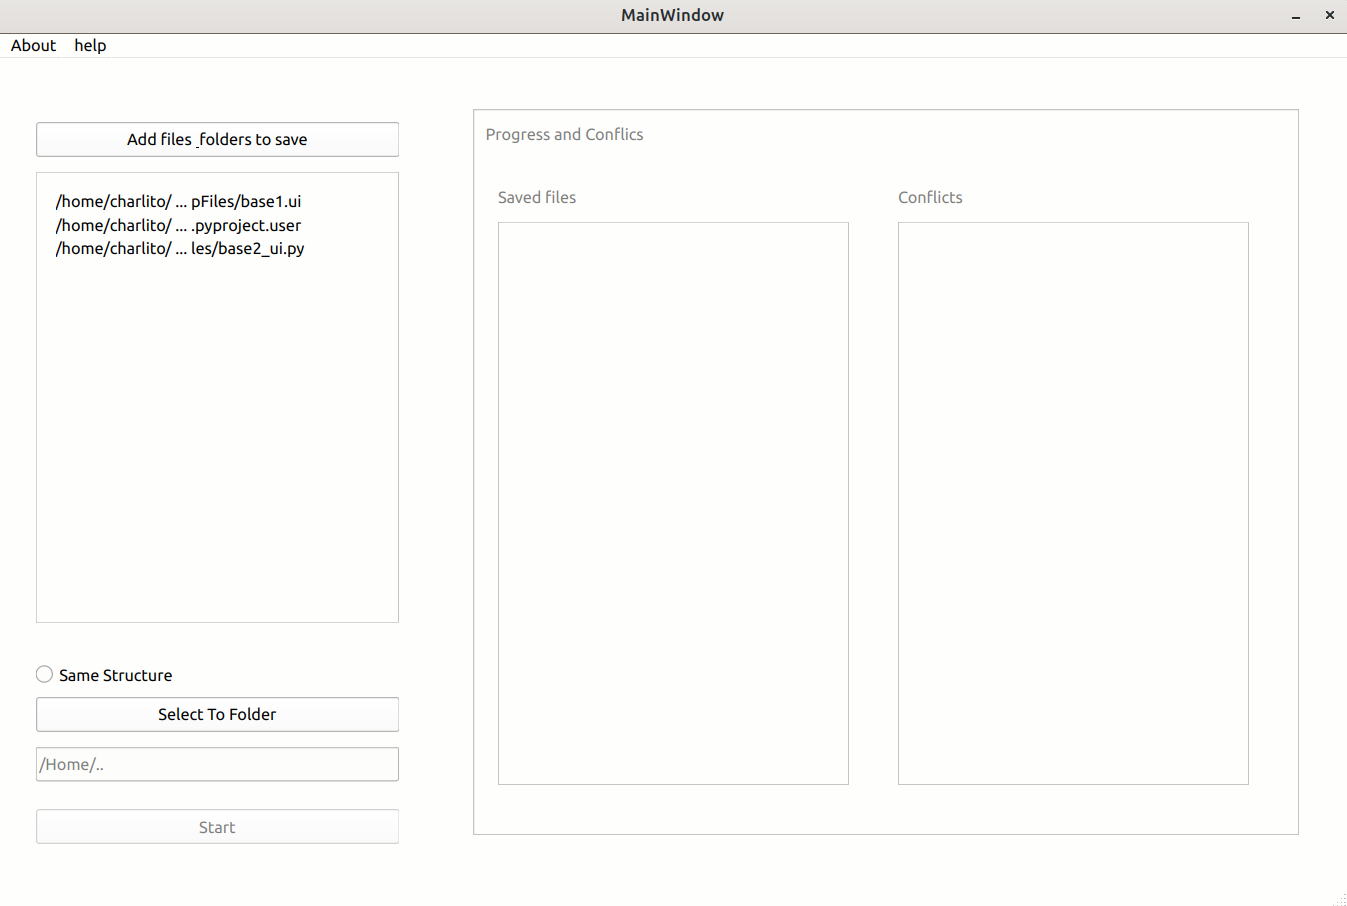
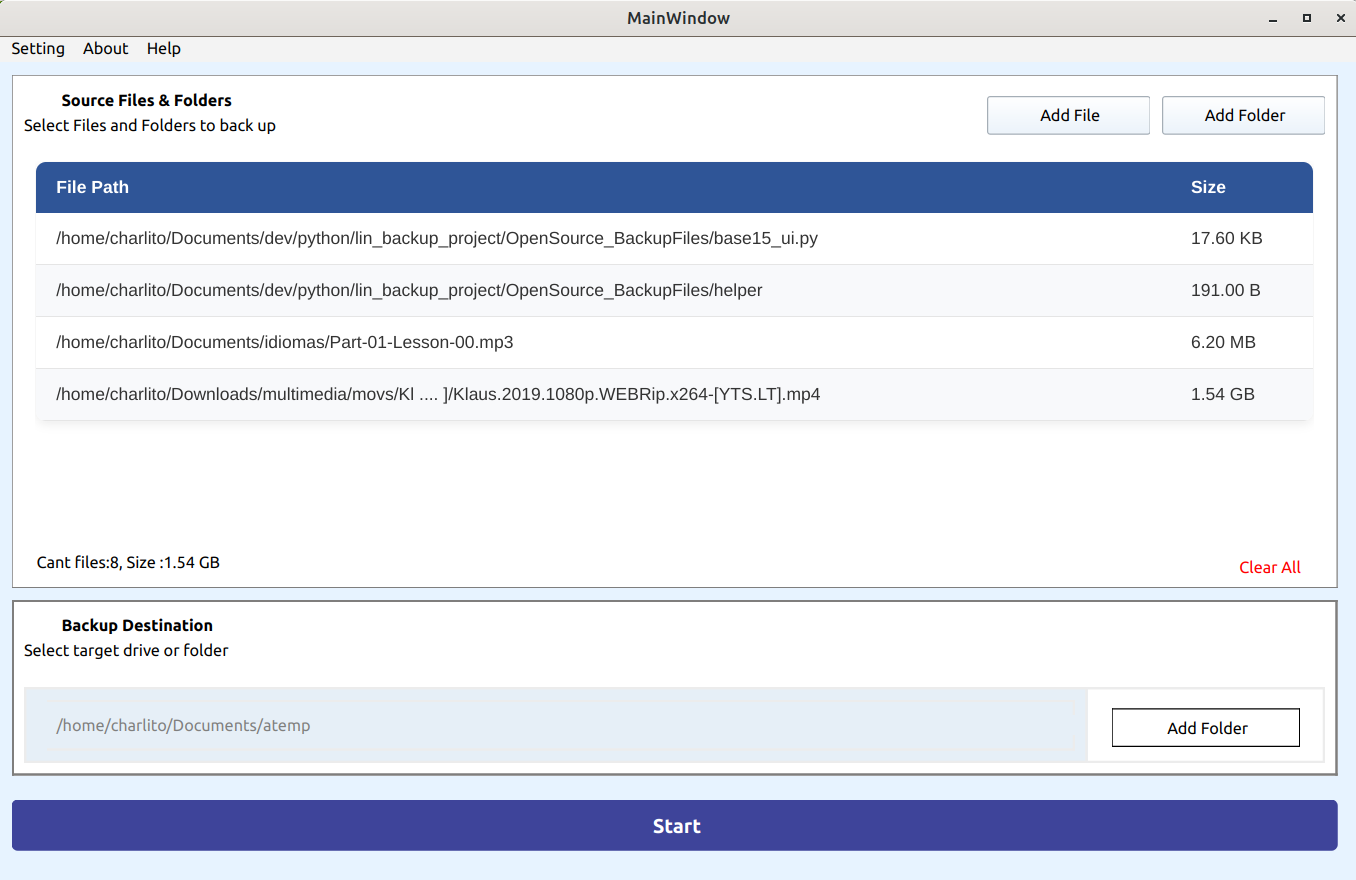
updated readme
updated readme

diff --git a/README.md b/README.md
@@ -2,7 +2,11 @@
 
 A simple desktop application for Linux that helps users select and copy files and folders to another location.
 
-The project is being developed with Python and Qt. Its goal is to provide a clear interface for reviewing copied files, detecting conflicts, and deciding whether existing files should be overwritten or skipped.
+The project is being developed with Python and Qt. Its goal is to provide a clear interface for reviewing copied files, detecting conflicts, and deciding whether existing files should be overwritten or skipped. Updated ui with Stitch.
+## Changelog
+
+- **Replaced fake multithreading with native script execution** — Python's GIL prevents true parallelism for CPU-bound I/O; file copying now delegates to a native bash script and captures its output, giving real concurrent file operations.
+- **New HTML/CSS/JS file list UI** — Replaced the previous `QScrollArea`-based widget with a clean, responsive web-view-based file listing (rendered via `QWebEngineView` or equivalent), offering a significantly better visual experience and smoother scrolling for large file sets.
 
 ## User interface
 
@@ -17,6 +21,8 @@ The project is being developed with Python and Qt. Its goal is to provide a clea
 - Display the selected paths in the interface.
 - Store the selected paths for later processing.
 - Shorten long paths for easier display.
+-- **Happy path working** — End-to-end copy flow is functional when no file conflicts are detected: select source → select destination → copy → summary displayed.   
+
 
 ## Planned features
 
@@ -37,10 +43,20 @@ The project is being developed with Python and Qt. Its goal is to provide a clea
 - Qt
 - Qt Creator
 - Qt Designer
+- Bash Scripting
+- Html-Js-Css
 
-## Project status
+### Project Status
 
-This project is currently under development. The basic user interface and file/folder selection functionality are already implemented.
+**~90% complete.** The core file-copying engine is finished and tested.
+
+| Component | Status |
+|-----------|--------|
+| Native copy script (subprocess) | ✅ Done |
+| File list UI (HTML/CSS/JS) | ✅ Done |
+| Happy path (no conflicts) | ✅ Done |
+| Conflict table UI (overwrite / skip) | 🔧 In progress |
+| Conflict resolution logic | 🔧 In progress |
 
 ## Screenshot setup
 
